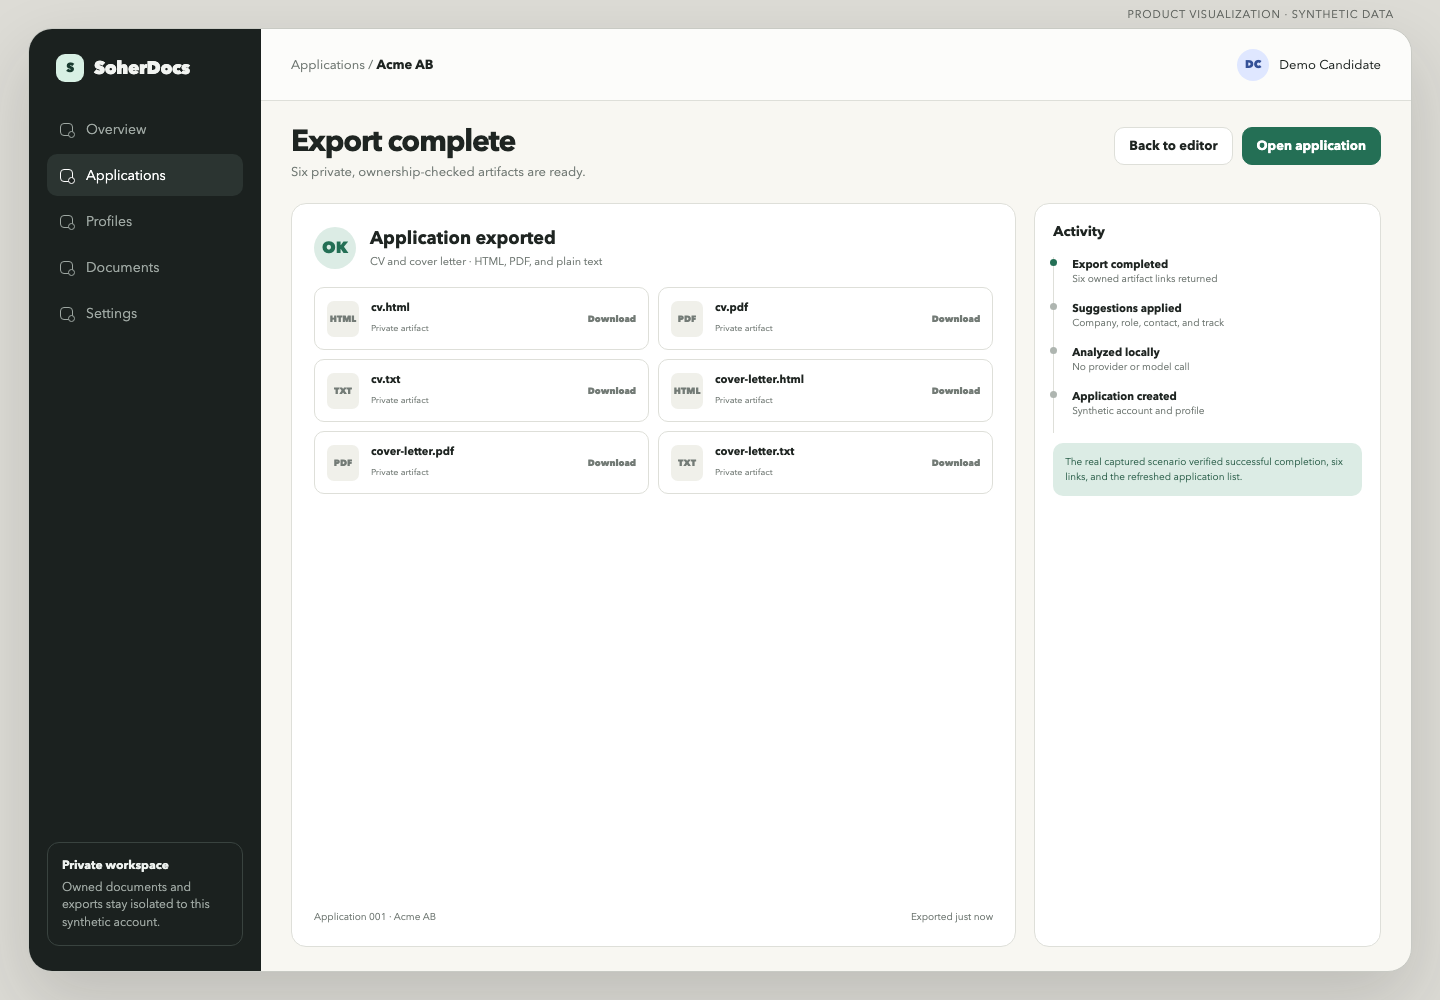
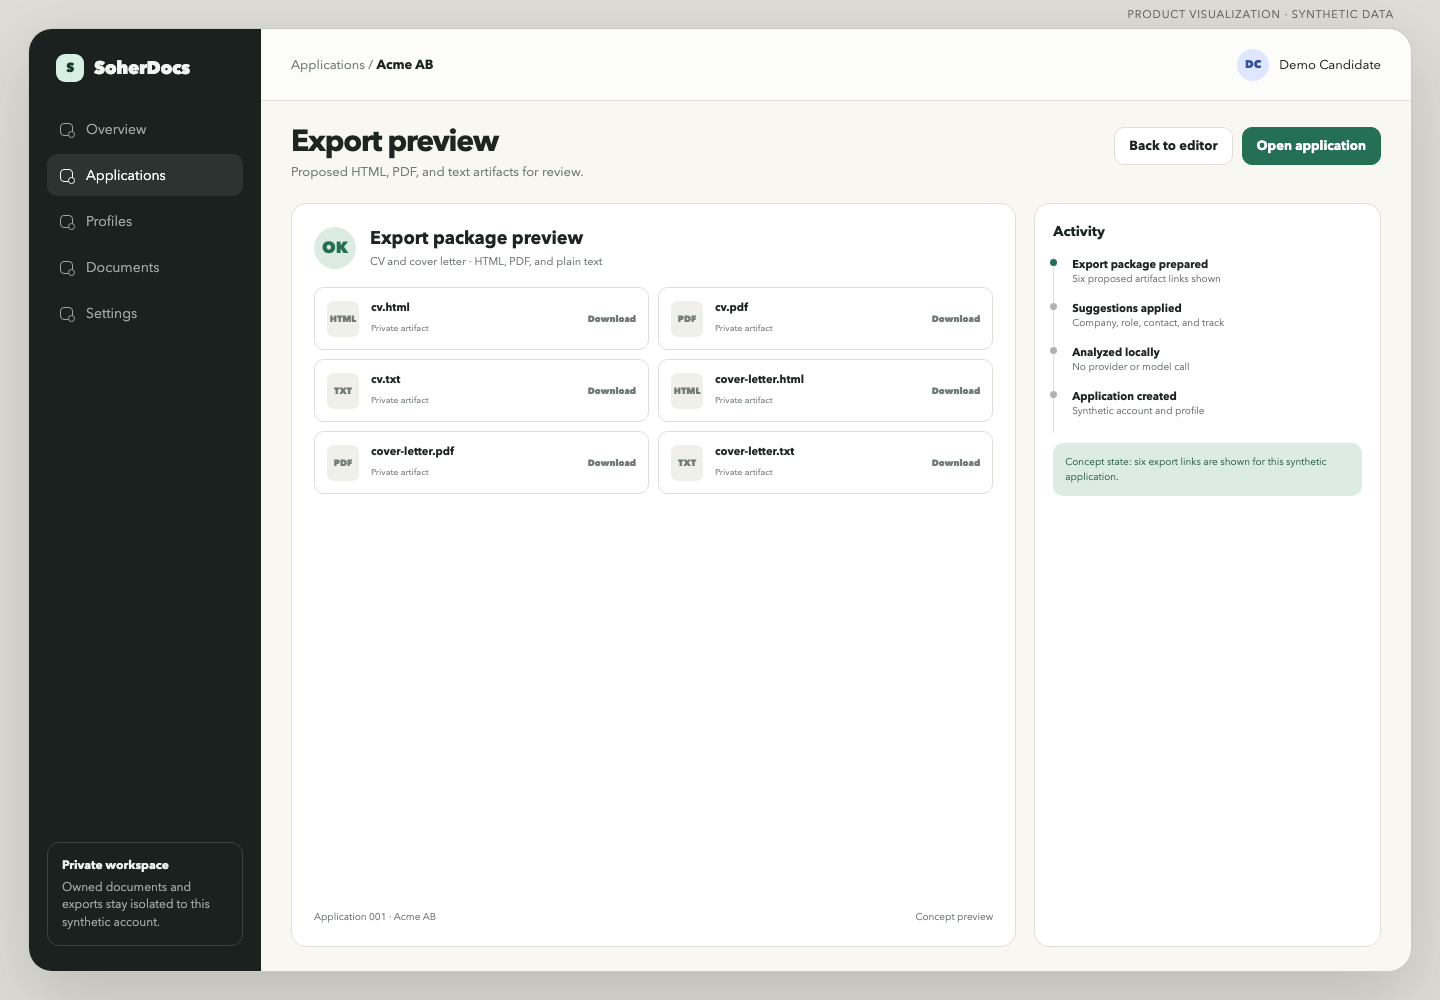
Remove SoherDocs runtime proof

diff --git a/projects/soherdocs.html b/projects/soherdocs.html
@@ -3,7 +3,7 @@
 <head>
   <meta charset="utf-8">
   <meta name="viewport" content="width=device-width, initial-scale=1">
-  <meta name="description" content="A polished SoherDocs product visualization backed by an actual authenticated export runtime capture.">
+  <meta name="description" content="A polished SoherDocs product visualization for a private application-document workflow.">
   <title>SoherDocs — Rami Halabi</title>
   <script>document.documentElement.classList.add('js')</script>
   <link rel="stylesheet" href="../assets/style.css">
@@ -28,11 +28,11 @@
       <p class="lead">A private workspace for analyzing a role, tailoring an application, and exporting owned CV and cover-letter artifacts.</p>
     </div>
     <div class="project-hero-note" data-reveal>
-      <p>The product images below are a polished interface direction built around the verified SoherDocs workflow and synthetic demo data.</p>
+      <p>The images below are a polished interface concept for the SoherDocs workflow, using synthetic demo data.</p>
     </div>
   </section>
 
-  <section class="section-block" id="runtime-title" aria-labelledby="product-title">
+  <section class="section-block" id="product-view" aria-labelledby="product-title">
     <div class="section-heading" data-reveal>
       <h2 id="product-title">The product view</h2>
       <p>Four still states show the workspace, local analysis, document tailoring, and export without turning the page into another video player.</p>
@@ -52,8 +52,8 @@
         <figcaption><strong>Tailored documents</strong><span>Editable owned fields update both previews before export.</span></figcaption>
       </figure>
       <figure class="product-slide" data-slide>
-        <img src="../evidence/soherdocs/product/04-export.png" alt="Polished SoherDocs export state showing six private HTML, PDF, and text artifacts">
-        <figcaption><strong>Private export</strong><span>Six ownership-checked artifacts across HTML, PDF, and text.</span></figcaption>
+        <img src="../evidence/soherdocs/product/04-export.png" alt="Polished SoherDocs concept showing six private HTML, PDF, and text export artifacts">
+        <figcaption><strong>Private export</strong><span>Six proposed artifacts across HTML, PDF, and text.</span></figcaption>
       </figure>
       <div class="product-controls">
         <div class="product-steps" aria-label="Choose product state">
@@ -65,30 +65,7 @@
         <div class="product-arrows"><span data-slide-status aria-live="polite">1 / 4</span><button class="arrow-button" data-slide-prev aria-label="Previous product state">←</button><button class="arrow-button" data-slide-next aria-label="Next product state">→</button></div>
       </div>
     </div>
-    <p class="visualization-note" data-reveal>Product visualization, not the recorded shipped interface. It keeps the verified workflow and synthetic scenario intact while showing a considered frontend direction. <a href="../evidence/soherdocs/product-visualization.html?state=1">Open the visualization source</a>.</p>
-  </section>
-
-  <section class="section-block" aria-labelledby="runtime-proof-title">
-    <div class="runtime-evidence">
-      <div class="runtime-frame" data-reveal>
-        <img src="../evidence/soherdocs/frames/02-local-analysis.png" alt="Decoded frame from the actual SoherDocs production-build runtime showing local job analysis and suggestions">
-      </div>
-      <div class="runtime-copy" data-reveal>
-        <h2 id="runtime-proof-title">Actual runtime evidence</h2>
-        <p>The real production build ran in Playwright Chromium with a synthetic account, throwaway PostgreSQL, and temporary artifact storage.</p>
-        <ul class="runtime-facts">
-          <li><span>Credentials flow</span><strong>Passed</strong></li>
-          <li><span>Local analysis</span><strong>Passed</strong></li>
-          <li><span>Private artifacts</span><strong>6</strong></li>
-          <li><span>Provider calls</span><strong>0</strong></li>
-        </ul>
-        <div class="evidence-links">
-          <a href="../evidence/soherdocs/soherdocs-application-export-runtime.webm">Original runtime capture</a>
-          <a href="../evidence/soherdocs/runtime-result.json">Machine-readable result</a>
-          <a href="../evidence/soherdocs/runtime-evidence.md">Evidence record</a>
-        </div>
-      </div>
-    </div>
+    <p class="visualization-note" data-reveal>Product visualization using synthetic data, not a shipped-interface recording. It shows a considered frontend direction for the intended workflow. <a href="../evidence/soherdocs/product-visualization.html?state=1">Open the visualization source</a>.</p>
   </section>
 
   <section class="source-note" data-reveal>
@@ -98,7 +75,7 @@
 </main>
 
 <footer class="site-footer">
-  <p>SoherDocs · product visualization and actual runtime evidence.</p>
+  <p>SoherDocs · product visualization.</p>
   <nav aria-label="Footer navigation"><a href="../index.html">Work</a><a href="pi-agent-harness.html">Soher</a></nav>
 </footer>
 </body>

diff --git a/assets/style.css b/assets/style.css
@@ -316,19 +316,6 @@ h3 { font-size: clamp(1.35rem, 2.2vw, 2rem); line-height: 1.08; }
 .arrow-button:hover { color: #fff; border-color: #697174; }
 .visualization-note { max-width: 760px; margin: 20px 0 0; font-size: .88rem; }
 
-.runtime-evidence {
-  display: grid;
-  grid-template-columns: minmax(0, 1.2fr) minmax(300px, .55fr);
-  gap: clamp(44px, 8vw, 110px);
-  align-items: center;
-}
-.runtime-frame { overflow: hidden; border-radius: var(--radius); box-shadow: var(--shadow); background: #e6e9ef; }
-.runtime-frame img { width: 100%; aspect-ratio: 16 / 10; object-fit: cover; }
-.runtime-copy h2 { margin-bottom: 22px; }
-.runtime-facts { margin: 28px 0 0; padding: 0; list-style: none; border-top: 1px solid var(--line); }
-.runtime-facts li { padding: 13px 0; display: flex; justify-content: space-between; gap: 24px; border-bottom: 1px solid var(--line); color: var(--muted); }
-.runtime-facts strong { color: var(--ink); }
-
 .source-note {
   padding: 56px 0 80px;
   display: flex;
@@ -373,7 +360,7 @@ h3 { font-size: clamp(1.35rem, 2.2vw, 2rem); line-height: 1.08; }
   .project-row, .project-row.reverse { min-height: auto; grid-template-columns: 1fr; }
   .project-row.reverse .project-visual { order: 0; }
   .project-copy { max-width: 620px; }
-  .section-heading, .evidence-layout, .runtime-evidence { grid-template-columns: 1fr; }
+  .section-heading, .evidence-layout { grid-template-columns: 1fr; }
   .section-heading { align-items: start; }
   .demo-switcher { grid-template-columns: 1fr; }
   .demo-tabs { display: grid; grid-template-columns: repeat(5, minmax(82px, 1fr)); overflow-x: auto; border-right: 0; border-bottom: 1px solid var(--line); }
@@ -409,7 +396,6 @@ h3 { font-size: clamp(1.35rem, 2.2vw, 2rem); line-height: 1.08; }
   .product-demo { margin-left: -6px; margin-right: -6px; padding: 8px; border-radius: 16px; }
   .product-slide img { border-radius: 10px; }
   .product-slide figcaption { grid-template-columns: 1fr; gap: 4px; padding: 14px 6px 4px; }
-  .runtime-facts li { flex-direction: column; gap: 2px; }
 }
 
 @media (prefers-reduced-motion: reduce) {

diff --git a/evidence/soherdocs/product-visualization.html b/evidence/soherdocs/product-visualization.html
@@ -21,7 +21,7 @@ addEventListener('resize',fit);
 
 <section class="view" data-view="3"><div class="page-head"><div><h1>Tailor the application</h1><p>Edit owned fields while both documents update in preview.</p></div><div class="actions"><button class="button">Review changes</button><button class="button primary">Review export</button></div></div><div class="tailor-layout"><div class="card editor"><div class="card-head"><h2>Application details</h2><span>Owned fields</span></div><div class="form"><div class="field"><label>Company</label><div class="input">Acme AB</div></div><div class="field"><label>Role title</label><div class="input">Systemutvecklare</div></div><div class="field"><label>Contact</label><div class="input">Anna Svensson</div></div><div class="field"><label>Motivation</label><div class="input textarea">Jag söker tjänsten som Systemutvecklare hos Acme AB. Jag motiveras särskilt av möjligheten att arbeta med systemutveckling, data och AI.</div></div><div class="suggestion"><strong>Reviewed suggestion</strong>Lead with the concrete role fit and keep the provider-neutral wording. Nothing changes until applied.</div></div></div><div class="preview-area"><div class="card preview"><div class="card-head"><h2>CV preview</h2><span>Live preview</span></div><div class="doc"><div class="paper"><div class="paper-header"><span class="candidate">Demo Candidate</span><span class="tiny">SYSTEMUTVECKLING · DATA · AI</span></div><div class="paper-section"><b>Profile</b><div class="line dark w90"></div><div class="line w80"></div><div class="line w72"></div><div class="diff">Role-relevant profile emphasis applied</div></div><div class="paper-section"><b>Experience</b><div class="line dark w72"></div><div class="line w90"></div><div class="line w80"></div><div class="line w62"></div><div class="line dark w80"></div><div class="line w90"></div><div class="line w72"></div></div><div class="paper-section"><b>Skills</b><div class="line dark w62"></div><div class="line w90"></div></div></div></div></div><div class="card preview"><div class="card-head"><h2>Cover letter</h2><span>Live preview</span></div><div class="doc"><div class="paper"><div class="paper-header"><span class="candidate">Acme AB</span><span class="tiny">22 JULY 2026</span></div><div class="paper-section"><b>Systemutvecklare</b><div class="line dark w80"></div><div class="diff">Specific motivation added from reviewed field</div></div><div class="paper-section"><div class="line w90"></div><div class="line w80"></div><div class="line w90"></div><div class="line w72"></div></div><div class="paper-section"><div class="line w80"></div><div class="line w90"></div><div class="line w62"></div><div class="line w90"></div></div><div class="paper-section"><div class="line dark w48"></div><div class="line w62"></div></div></div></div></div></div></div></section>
 
-<section class="view" data-view="4"><div class="page-head"><div><h1>Export complete</h1><p>Six private, ownership-checked artifacts are ready.</p></div><div class="actions"><button class="button">Back to editor</button><button class="button primary">Open application</button></div></div><div class="export-layout"><div class="card export-card"><div class="success-row"><span class="success-mark">OK</span><div><h2>Application exported</h2><p>CV and cover letter · HTML, PDF, and plain text</p></div></div><div class="files"><div class="file"><span class="file-icon">HTML</span><div><strong>cv.html</strong><span>Private artifact</span></div><span class="download">Download</span></div><div class="file"><span class="file-icon">PDF</span><div><strong>cv.pdf</strong><span>Private artifact</span></div><span class="download">Download</span></div><div class="file"><span class="file-icon">TXT</span><div><strong>cv.txt</strong><span>Private artifact</span></div><span class="download">Download</span></div><div class="file"><span class="file-icon">HTML</span><div><strong>cover-letter.html</strong><span>Private artifact</span></div><span class="download">Download</span></div><div class="file"><span class="file-icon">PDF</span><div><strong>cover-letter.pdf</strong><span>Private artifact</span></div><span class="download">Download</span></div><div class="file"><span class="file-icon">TXT</span><div><strong>cover-letter.txt</strong><span>Private artifact</span></div><span class="download">Download</span></div></div><div class="export-footer"><span>Application 001 · Acme AB</span><span>Exported just now</span></div></div><aside class="card activity"><h3>Activity</h3><div class="activity-item"><strong>Export completed</strong>Six owned artifact links returned</div><div class="activity-item"><strong>Suggestions applied</strong>Company, role, contact, and track</div><div class="activity-item"><strong>Analyzed locally</strong>No provider or model call</div><div class="activity-item"><strong>Application created</strong>Synthetic account and profile</div><div class="activity-proof">The real captured scenario verified successful completion, six links, and the refreshed application list.</div></aside></div></section>
+<section class="view" data-view="4"><div class="page-head"><div><h1>Export preview</h1><p>Proposed HTML, PDF, and text artifacts for review.</p></div><div class="actions"><button class="button">Back to editor</button><button class="button primary">Open application</button></div></div><div class="export-layout"><div class="card export-card"><div class="success-row"><span class="success-mark">OK</span><div><h2>Export package preview</h2><p>CV and cover letter · HTML, PDF, and plain text</p></div></div><div class="files"><div class="file"><span class="file-icon">HTML</span><div><strong>cv.html</strong><span>Private artifact</span></div><span class="download">Download</span></div><div class="file"><span class="file-icon">PDF</span><div><strong>cv.pdf</strong><span>Private artifact</span></div><span class="download">Download</span></div><div class="file"><span class="file-icon">TXT</span><div><strong>cv.txt</strong><span>Private artifact</span></div><span class="download">Download</span></div><div class="file"><span class="file-icon">HTML</span><div><strong>cover-letter.html</strong><span>Private artifact</span></div><span class="download">Download</span></div><div class="file"><span class="file-icon">PDF</span><div><strong>cover-letter.pdf</strong><span>Private artifact</span></div><span class="download">Download</span></div><div class="file"><span class="file-icon">TXT</span><div><strong>cover-letter.txt</strong><span>Private artifact</span></div><span class="download">Download</span></div></div><div class="export-footer"><span>Application 001 · Acme AB</span><span>Concept preview</span></div></div><aside class="card activity"><h3>Activity</h3><div class="activity-item"><strong>Export package prepared</strong>Six proposed artifact links shown</div><div class="activity-item"><strong>Suggestions applied</strong>Company, role, contact, and track</div><div class="activity-item"><strong>Analyzed locally</strong>No provider or model call</div><div class="activity-item"><strong>Application created</strong>Synthetic account and profile</div><div class="activity-proof">Concept state: six export links are shown for this synthetic application.</div></aside></div></section>
 
 </div></main></div></div></body>
 </html>

diff --git a/README.md b/README.md
@@ -18,15 +18,9 @@ Evidence:
 
 ## SoherDocs
 
-**[Open the polished image walkthrough](https://raal1600.github.io/ai-agent-portfolio/projects/soherdocs.html#runtime-title)**
+**[Open the polished image walkthrough](https://raal1600.github.io/ai-agent-portfolio/projects/soherdocs.html#product-view)**
 
-Four product-visualization states show the verified application workspace, local role analysis, document tailoring, and six-artifact private export. The visualization is clearly separated from the actual production-build capture.
-
-Evidence:
-
-- [Original runtime capture](evidence/soherdocs/soherdocs-application-export-runtime.webm)
-- [Machine-readable assertions](evidence/soherdocs/runtime-result.json)
-- [Evidence record](evidence/soherdocs/runtime-evidence.md)
+Four synthetic product-visualization states present a polished interface concept for the application workspace, local role analysis, document tailoring, and private export.
 
 ## Source access
 